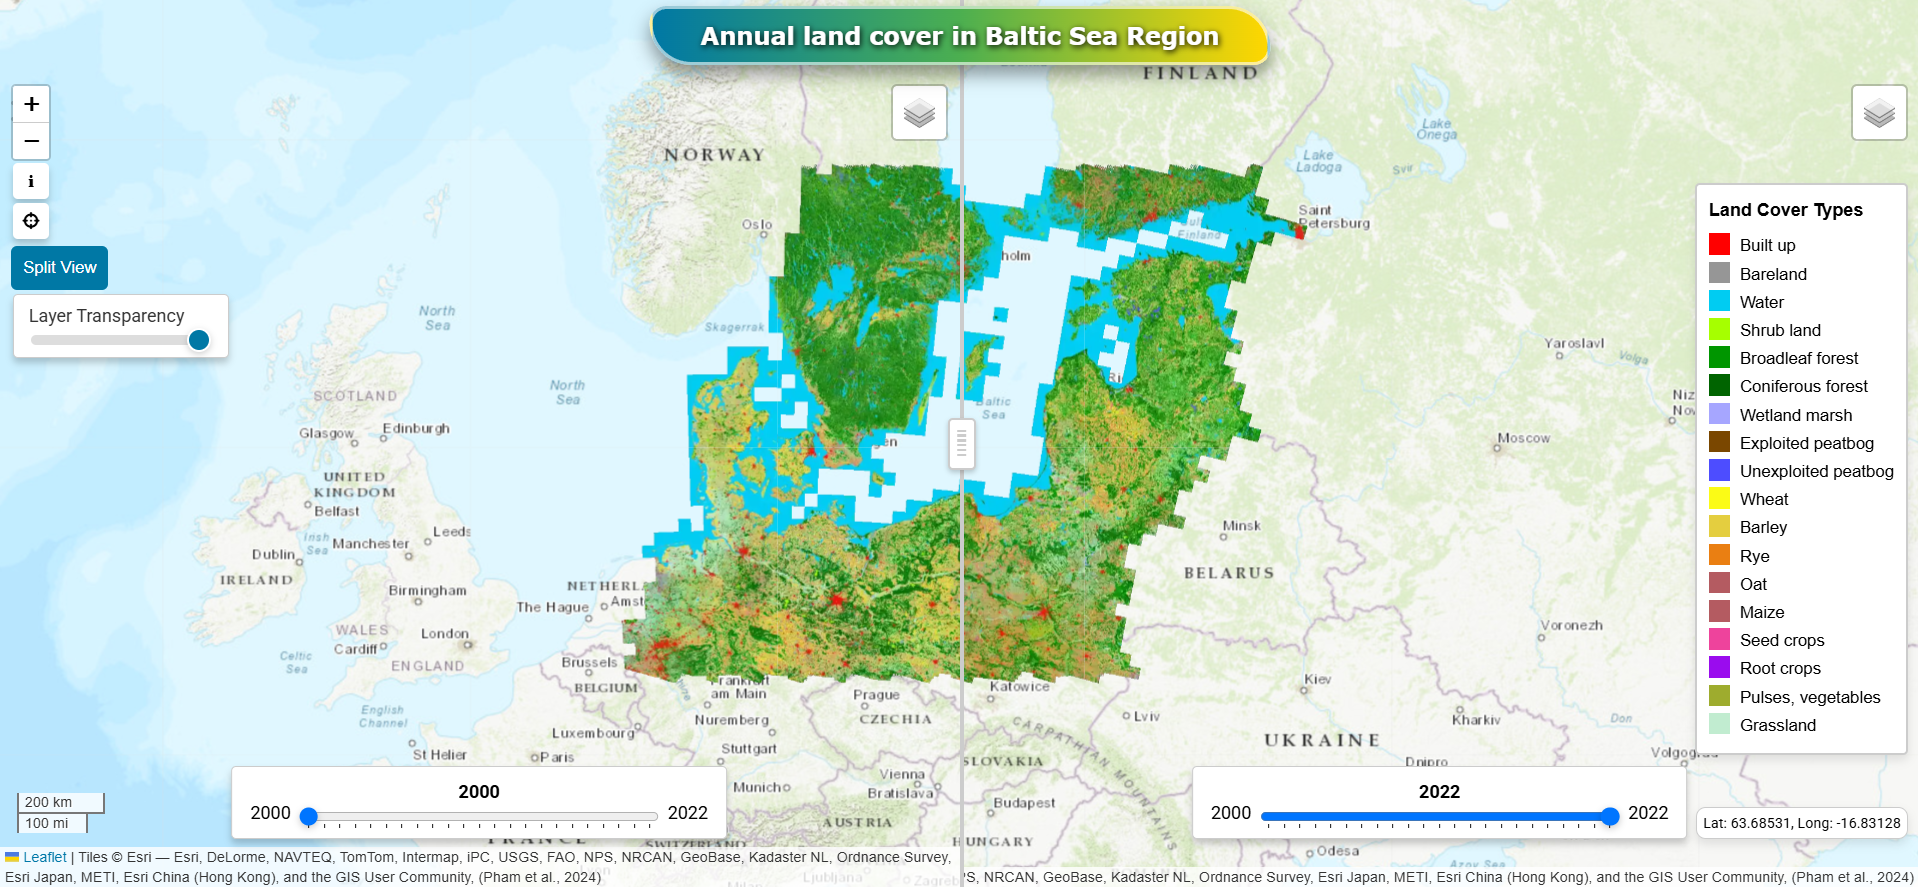
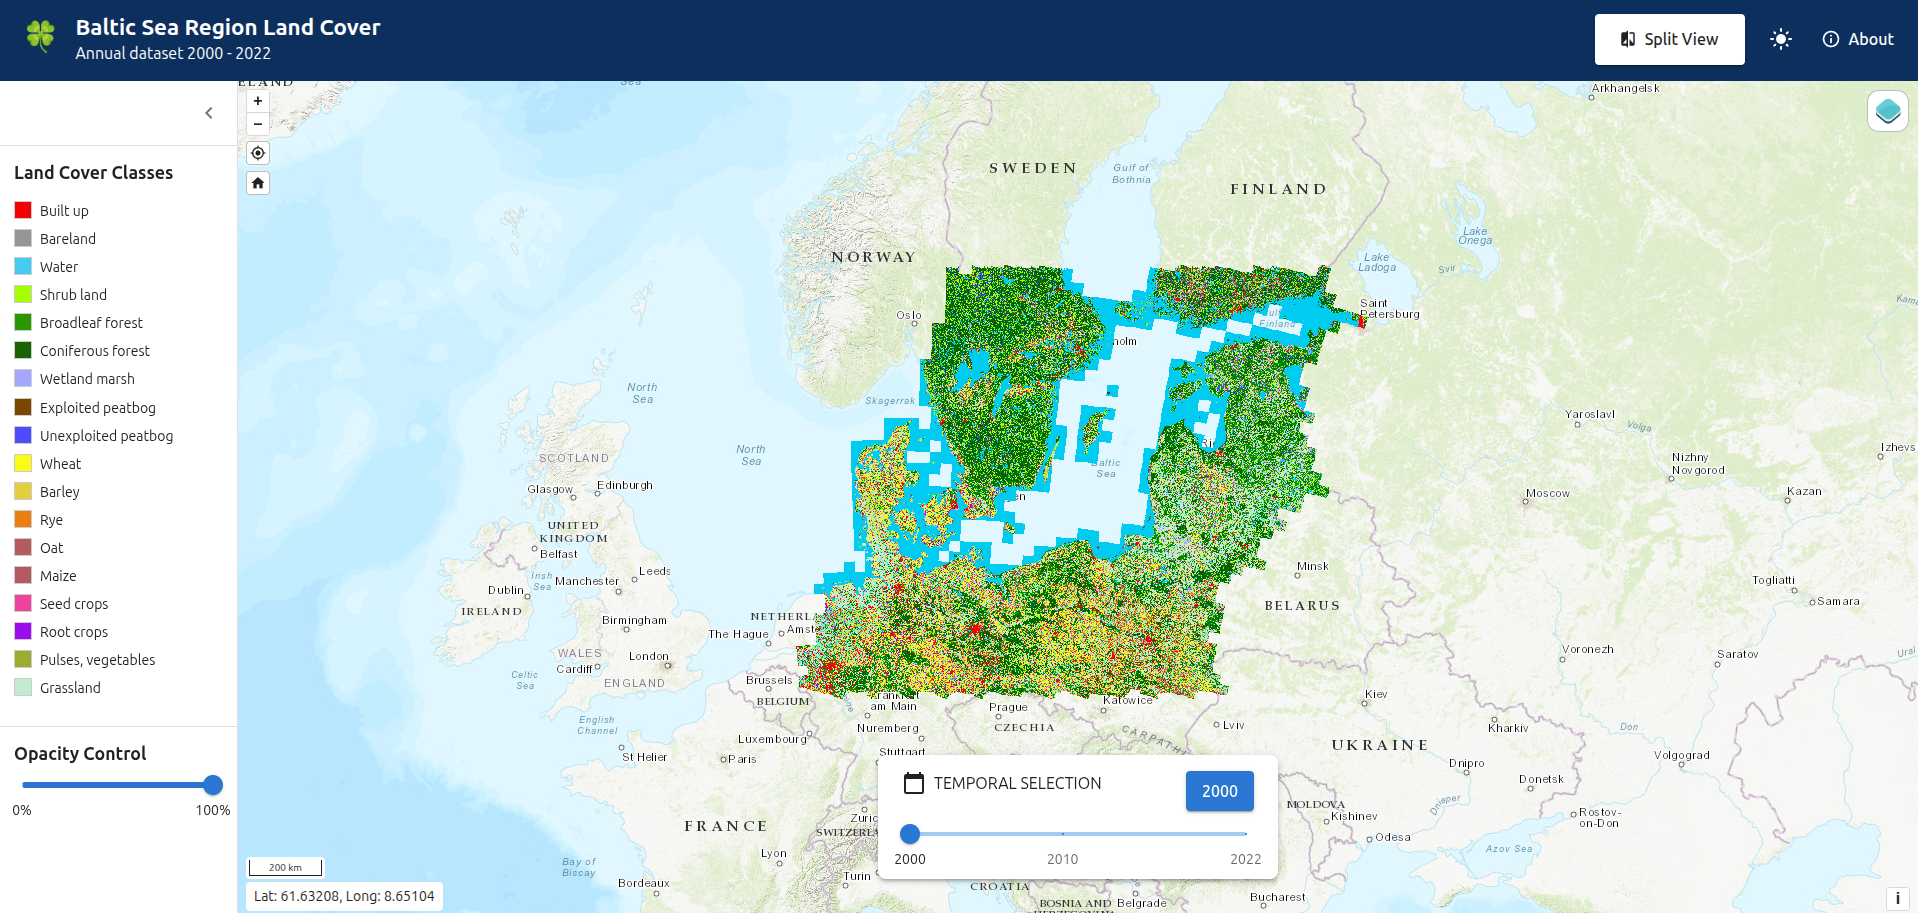
refactor: change link to bsrlc webgis project

diff --git a/_projects/webgis_1_bsrlc.md b/_projects/webgis_1_bsrlc.md
@@ -1,0 +1,10 @@
+---
+layout: page
+title: Annual Landcover Baltic Sea Region
+description: 'An interactive webmap for land cover visualization, and temporal comparison using OpenLayers + React'
+img: assets/img/webgis_bsrlc.png
+importance: 1
+category: WebGIS
+redirect: https://bsrlc-webmap.vietducnguyen-fit.workers.dev/
+---
+

diff --git a/_projects/webgis_2_treeAttribute_from_pc.md b/_projects/webgis_2_treeAttribute_from_pc.md
@@ -3,7 +3,7 @@ layout: page
 title: Forest in 3D point cloud
 description: 3D LiDAR data of Mollergrab marteloscope forest in Eberswalde, Germany
 img: assets/img/webgis_potree_overview.png
-importance: 1
+importance: 2
 category: WebGIS
 redirect: https://vietducng.github.io/Mollergrab-potree/
 ---
